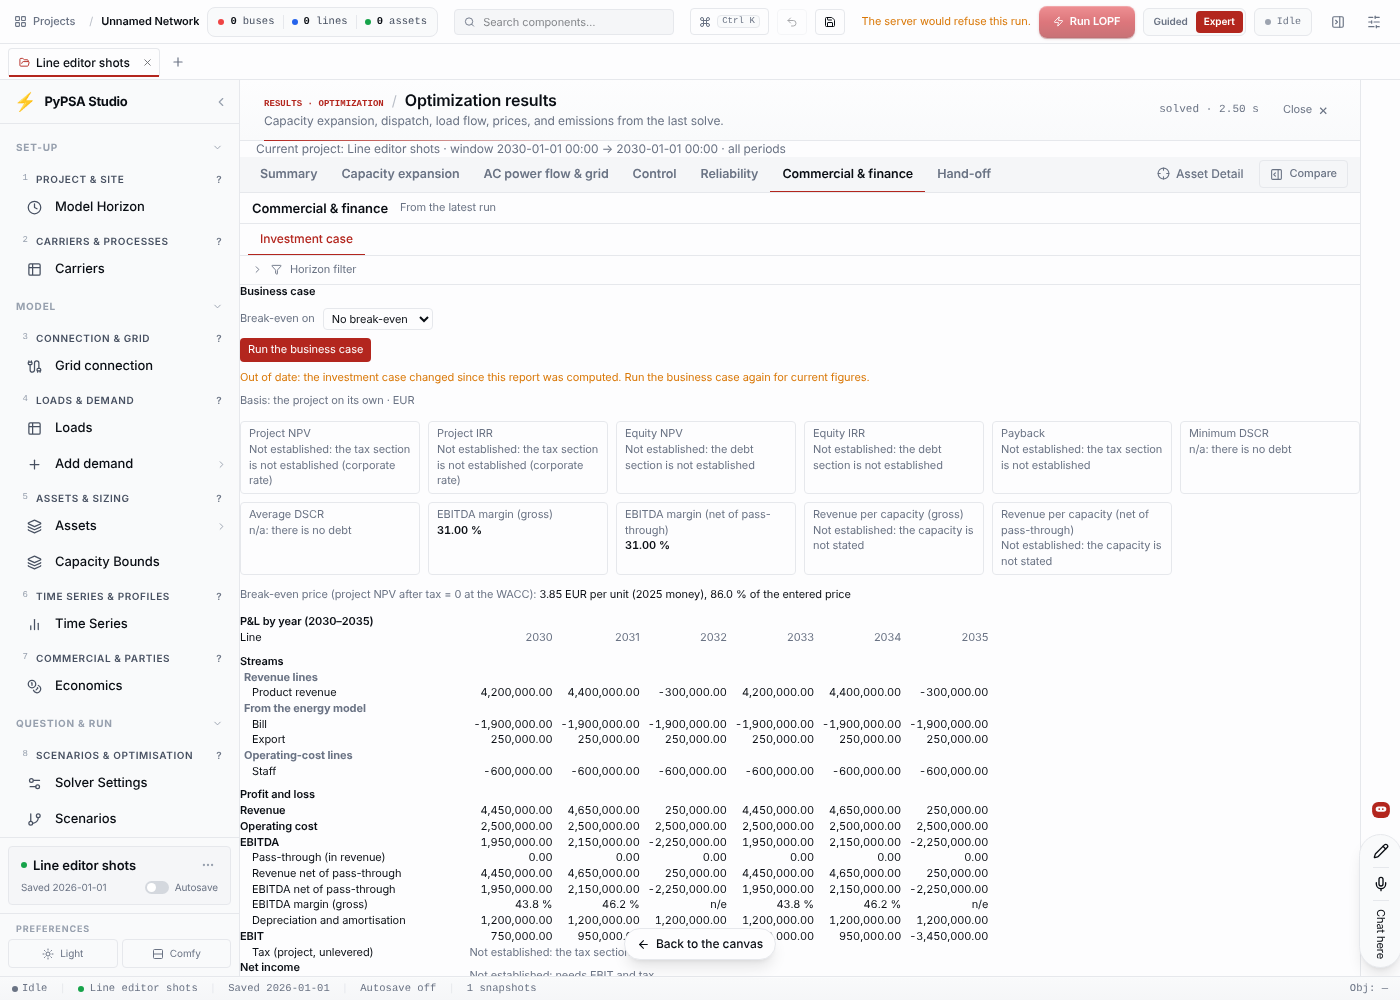
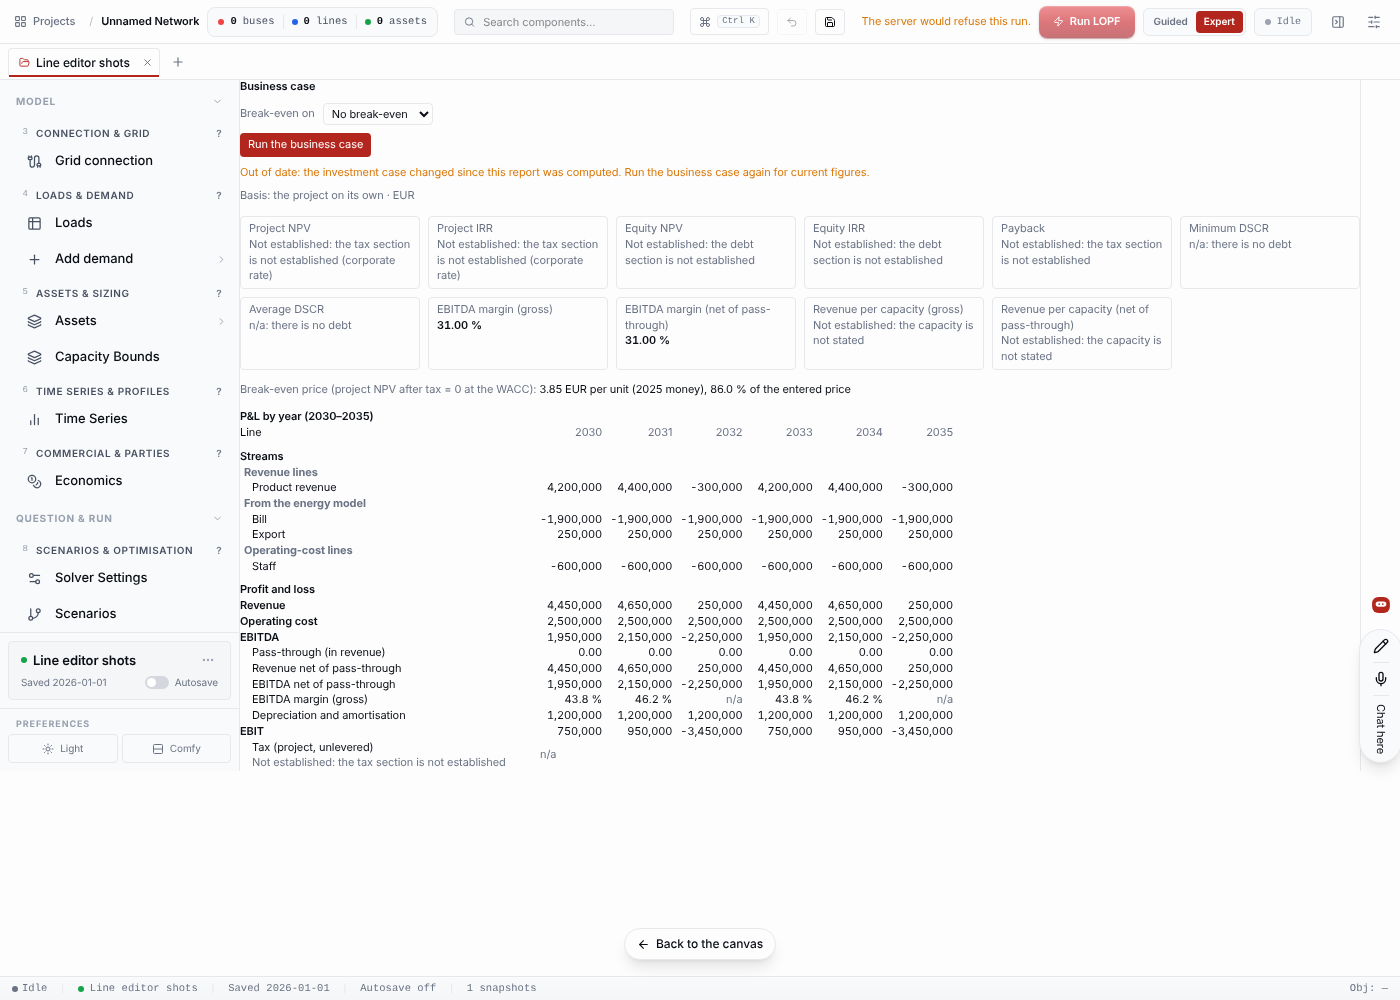
business-case 10: UX shots and nits: Run-off, blocked and scrolled shots; pinned headings and row reasons; whole numbers; n/a with its reason
Claude-Session: https://claude.ai/code/session_01G7qCukjHfjqDDWuRT7ZVhV

diff --git a/pypsa-gui/frontend/src/pages/results/investment/BusinessCaseRun.tsx b/pypsa-gui/frontend/src/pages/results/investment/BusinessCaseRun.tsx
@@ -12,7 +12,7 @@ import { useUIStore } from '../../../store/uiStore'
 import { ACTION } from './actionStyle'
 import {
   breakEvenReason, fmtYear, hidden, KPI_ORDER, kpiText, NET_INCOME_NOTE, PNL_SECTIONS,
-  rowReason, series, staleText, stageText, streamGroups,
+  rowReason, series, staleText, stageText, streamGroups, yearReason,
 } from './businessCaseReport'
 import { fmtAmount } from './valueFlows'
 
@@ -164,13 +164,32 @@ function BreakEven({ report, line }: { report: BusinessCaseReport; line: string 
   )
 }
 
+/** Pinned to the scroll box's left edge, so a heading stays readable while the years scroll. */
+const PIN = 'sticky left-0 inline-block'
+
+/** Why a whole row is missing: under its label in the pinned column, so it stays in view. */
+function Reason({ text }: { text: string }) {
+  return <span className="block font-normal text-muted whitespace-normal max-w-[18rem]" data-testid="bc-row-reason">{text}</span>
+}
+
+/** The years of a missing row: "n/a" once, the reason being in the row header. */
+function Gap({ span }: { span: number }) {
+  return <td colSpan={span} className="text-muted px-1"><span aria-hidden="true">n/a</span></td>
+}
+
 function PnlTable({ pnl }: { pnl: BusinessCasePnl }) {
   const years = pnl.years
   const groups = streamGroups(pnl)
   const head = 'sticky left-0 bg-bg text-left pr-2 font-normal whitespace-nowrap'
-  const cells = (v: (number | null)[] | null, pct = false) => years.map((y, i) => (
-    <td key={y} className="text-right tabular-nums px-1 whitespace-nowrap">{fmtYear(v?.[i] ?? null, pct)}</td>
-  ))
+  const cells = (key: string, v: (number | null)[] | null, pct = false) => years.map((y, i) => {
+    const text = fmtYear(v?.[i] ?? null, pct)
+    if (text !== null) return <td key={y} className="text-right tabular-nums px-1 whitespace-nowrap">{text}</td>
+    const why = `n/a: ${yearReason(key)}`
+    return (
+      <td key={y} className="text-right px-1 whitespace-nowrap text-muted" title={why}>
+        <span aria-hidden="true">n/a</span><span className="sr-only">{why}</span></td>
+    )
+  })
   return (
     <div className="overflow-x-auto" data-testid="bc-pnl">
       <table className="text-[11px] border-collapse">
@@ -180,22 +199,23 @@ function PnlTable({ pnl }: { pnl: BusinessCasePnl }) {
             {years.map(y => <th key={y} scope="col" className="text-right px-1 font-normal text-muted">{y}</th>)}</tr>
         </thead>
         <tbody>
-          <tr><th scope="rowgroup" colSpan={years.length + 1} className="text-left pt-2 font-semibold">Streams</th></tr>
+          <tr><th scope="rowgroup" colSpan={years.length + 1} className="text-left pt-2 font-semibold">
+            <span className={PIN}>Streams</span></th></tr>
           {!pnl.stream_source && groups.length > 0 && (
             <tr><td colSpan={years.length + 1} className="text-muted" data-testid="bc-streams-other">
-              This report predates the stream groups: its streams are listed under Other. Run again to group them.</td></tr>
+              <span className={PIN}>This report predates the stream groups: its streams are listed under Other. Run again to group them.</span></td></tr>
           )}
           {groups.map(g => (
             <Fragment key={g.id}>
               <tr data-testid={`bc-group-${g.id}`}>
-                <th scope="rowgroup" colSpan={years.length + 1} className="text-left text-muted pl-1">{g.title}</th></tr>
+                <th scope="rowgroup" colSpan={years.length + 1} className="text-left text-muted"><span className={PIN + ' pl-1'}>{g.title}</span></th></tr>
               {g.streams.map(n => {
                 const v = pnl.streams[n]
                 return (
                   <tr key={n} data-testid={`bc-stream-${n}`}>
-                    <th scope="row" className={head + ' pl-3'}>{words(n.replace(/^bc_/, ''))}</th>
-                    {v ? cells(v)
-                      : <td colSpan={years.length} className="text-muted">{rowReason(`stream:${n}`, pnl)}</td>}
+                    <th scope="row" className={head + ' pl-3'}>{words(n.replace(/^bc_/, ''))}
+                      {!v && <Reason text={rowReason(`stream:${n}`, pnl)} />}</th>
+                    {v ? cells(n, v) : <Gap span={years.length} />}
                   </tr>
                 )
               })}
@@ -203,8 +223,9 @@ function PnlTable({ pnl }: { pnl: BusinessCasePnl }) {
           ))}
           {PNL_SECTIONS.map(sec => (
             <Fragment key={sec.title}>
-              <tr><th scope="rowgroup" colSpan={years.length + 1} className="text-left pt-2 font-semibold">{sec.title}
-                {sec.note && <span className="font-normal text-muted"> · {sec.note}</span>}</th></tr>
+              <tr><th scope="rowgroup" colSpan={years.length + 1} className="text-left pt-2 font-semibold">
+                <span className={PIN}>{sec.title}
+                  {sec.note && <span className="font-normal text-muted"> · {sec.note}</span>}</span></th></tr>
               {sec.rows.map(spec => {
                 const v = series(pnl, spec.key)
                 if (hidden(spec, v)) return null
@@ -213,9 +234,9 @@ function PnlTable({ pnl }: { pnl: BusinessCasePnl }) {
                     <th scope="row" className={head + (spec.total ? ' font-semibold' : ' pl-3')}>{spec.label}
                       {spec.key === 'net_income' && (
                         <span className="block font-normal text-muted" data-testid="bc-net-income-note">{NET_INCOME_NOTE}</span>
-                      )}</th>
-                    {v ? cells(v, spec.pct)
-                      : <td colSpan={years.length} className="text-muted">{rowReason(spec.key, pnl)}</td>}
+                      )}
+                      {!v && <Reason text={rowReason(spec.key, pnl)} />}</th>
+                    {v ? cells(spec.key, v, spec.pct) : <Gap span={years.length} />}
                   </tr>
                 )
               })}

diff --git a/pypsa-gui/frontend/src/pages/results/investment/BusinessCaseRun.test.tsx b/pypsa-gui/frontend/src/pages/results/investment/BusinessCaseRun.test.tsx
@@ -10,7 +10,7 @@ import {
 } from '../../../api/businessCase'
 import { useUIStore } from '../../../store/uiStore'
 import BusinessCaseRun, { type BusinessCaseRunProps } from './BusinessCaseRun'
-import { kpiText, reasonWords, streamGroups } from './businessCaseReport'
+import { fmtYear, kpiText, reasonWords, streamGroups } from './businessCaseReport'
 import { expectAllButtonsNamed } from '../../../test-utils/accessibleName'
 
 vi.mock('../../../api/businessCase', async (importOriginal) => {
@@ -95,8 +95,10 @@ describe('the P&L (GK B F1–F4)', () => {
     expect(screen.getByTestId('bc-row-net_income').textContent ?? '').toContain('Not established: needs EBIT and tax')
     expect(screen.getByTestId('bc-net-income-note').textContent ?? '').toContain('Net income is before financing (unlevered).')
     expect(screen.queryByTestId('bc-row-interest')).toBeNull()
-    // A None year inside a series is "n/e", not 0.
-    expect(within(screen.getByTestId('bc-row-ebitda_margin')).getAllByRole('cell')[1].textContent ?? '').toContain('n/e')
+    // A None year inside a series is "n/a" with its reason, not 0.
+    const gap = within(screen.getByTestId('bc-row-ebitda_margin')).getAllByRole('cell')[1]
+    expect(gap.getAttribute('title')).toBe('n/a: there is no revenue this year')
+    expect(gap.textContent).toBe('n/an/a: there is no revenue this year')
   })
 
   it('terminal is hidden only when exactly 0; a None terminal shows as not established', () => {
@@ -125,6 +127,10 @@ describe('the KPI row (UX 6)', () => {
     }
     expect(kpiText({ value: 0, status: 'ok', reason: null }, 'pct')).toBe('0.00 %')
     expect(reasonWords(null)).toBe('no reason given')
+    // Millions read as whole numbers; small amounts keep their cents.
+    expect(fmtYear(4.2e6)).toBe((4.2e6).toLocaleString(undefined, { maximumFractionDigits: 0 }))
+    expect(fmtYear(12.5)).toBe((12.5).toLocaleString(undefined, { minimumFractionDigits: 2, maximumFractionDigits: 2 }))
+    expect(fmtYear(null)).toBeNull()
   })
 
   it('break-even shows its reason when not established', () => {

diff --git a/pypsa-gui/frontend/src/pages/results/investment/businessCaseReport.ts b/pypsa-gui/frontend/src/pages/results/investment/businessCaseReport.ts
@@ -115,9 +115,19 @@ export function hidden(spec: PnlRowSpec, s: YearSeries): boolean {
   return !!spec.hideWhenZero && Array.isArray(s) && s.length > 0 && s.every(v => v === 0)
 }
 
-export function fmtYear(v: number | null, pct = false): string {
-  if (v === null || !Number.isFinite(v)) return 'n/e'
-  return pct ? `${(v * 100).toFixed(1)} %` : fmtAmount(v)
+/** A year's figure; null for a year with none (the view shows "n/a" and the reason).
+ *  Amounts of 1,000 or more read as whole numbers (UX nit on BC 10). */
+export function fmtYear(v: number | null, pct = false): string | null {
+  if (v === null || !Number.isFinite(v)) return null
+  if (pct) return `${(v * 100).toFixed(1)} %`
+  return Math.abs(v) >= 1000
+    ? v.toLocaleString(undefined, { maximumFractionDigits: 0 })
+    : fmtAmount(v)
+}
+
+/** Why one year of an otherwise established row has no figure. */
+export function yearReason(key: string): string {
+  return key === 'ebitda_margin' ? 'there is no revenue this year' : 'this year is not established'
 }
 
 // ── streams (F1, F2) ────────────────────────────────────────────────────────
